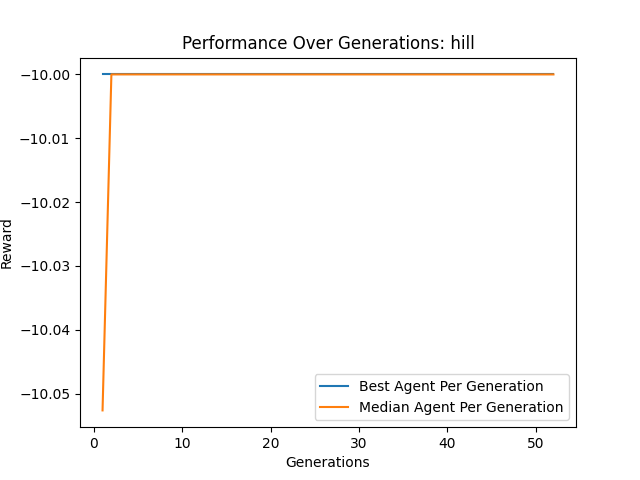
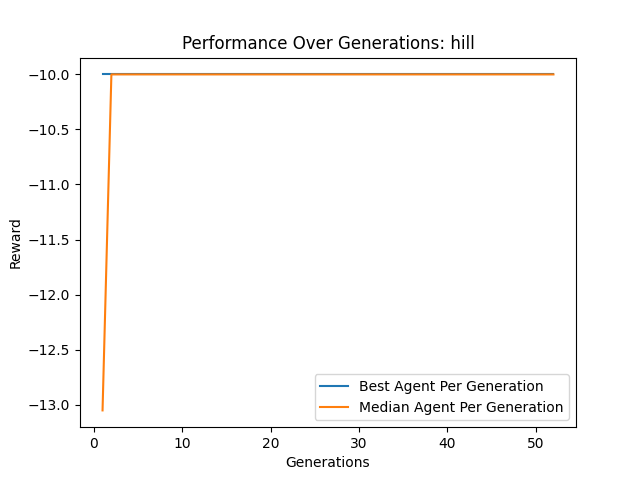
debug info prints

diff --git a/core/evolution.py b/core/evolution.py
@@ -147,12 +147,15 @@ class PopulationMember:
 
     def run_action_sequence(self):
         start_time = timer()
-        self.reward = 0
+        self.reward = None
         observation, _ = self.env.reset()
         if self.genotype_representation == "1d":
             for idx, action in enumerate(self.action_sequence):
                 _, reward, terminate, truncate, info = self.env.step(action)
-                self.reward += reward
+                if not self.reward:
+                    self.reward = reward
+                else: 
+                    self.reward += reward
                 self.info = info
                 if terminate or truncate:
                     break
@@ -166,7 +169,10 @@ class PopulationMember:
                 observation, reward, terminate, truncate, info = self.env.step(
                     self.action_sequence[flattened_index]
                 )
-                self.reward += reward
+                if not self.reward:
+                    self.reward = reward
+                else: 
+                    self.reward += reward
                 self.info = info
         end_time = timer()
         self.info["wfc_rollout_time"] = end_time - start_time
@@ -633,9 +639,9 @@ def render_best_agent(
     total_reward = 0
     print("Info:", best_agent.info)
     print("Rendering best agent's action sequence...")
-
+    info = None
     for action in tqdm(best_agent.action_sequence, desc="Rendering Steps"):
-        _, reward, terminate, truncate, _ = env.step(action)
+        _, reward, terminate, truncate, info = env.step(action)
         total_reward += reward
 
         # Clear screen
@@ -676,7 +682,8 @@ def render_best_agent(
         # Capture final frame if this is the last step
         if terminate or truncate:
             break
-
+    if info:
+        print("Final Info:", info)
     # --- Draw the path with smooth curves ---
     if hasattr(best_agent.info, "get") and "longest_path" in best_agent.info:
         path_indices = best_agent.info["longest_path"]
@@ -1037,13 +1044,15 @@ if __name__ == "__main__":
 
         # Run the best agent's actions
         observation, _ = env.reset()
+        info = None
         for action in best_agent.action_sequence:
-            observation, _, terminated, truncated, _ = env.step(action)
+            observation, _, terminated, truncated, info = env.step(action)
             env.render()
             pygame.display.flip()
             if terminated or truncated:
                 break
-
+        if info:
+            print("Final Info:", info)
         # Save the final render
         env.save_render(output_filename)
         print(f"Saved final render to {output_filename}")

diff --git a/core/wfc_env.py b/core/wfc_env.py
@@ -47,42 +47,6 @@ class CombinedReward:
         return total_reward, merged_info
 
 
-def grid_to_array(
-    grid: list[list[set[str]]],
-    tile_symbols: list[str],
-    tile_to_index: dict[str, int],
-    map_length: int,
-    map_width: int,
-) -> np.ndarray:
-    """Converts the list-of-sets grid to a flattened numpy array for the observation."""
-    arr = np.empty((map_length, map_width), dtype=np.float32)
-    num_tiles = len(tile_symbols)
-    for y in range(map_length):
-        for x in range(map_width):
-            cell_set = grid[y][x]
-            num_options = len(cell_set)
-            if num_options == 1:
-                # Collapsed cell
-                tile_name = next(iter(cell_set))
-                idx = tile_to_index.get(tile_name, -1)  # Get index from map
-                if idx != -1 and num_tiles > 1:
-                    arr[y, x] = idx / (num_tiles - 1)
-                elif idx != -1 and num_tiles == 1:
-                    arr[y, x] = 0.0  # Handle single tile case
-                else:
-                    arr[y, x] = -1.0  # Should not happen if tile_to_index is correct
-            elif num_options == 0:
-                # Contradiction cell
-                arr[
-                    y, x
-                ] = -2.0  # Use a different value for contradiction? Or stick to -1? Let's use -1.
-                arr[y, x] = -1.0
-            else:
-                # Undecided cell
-                arr[y, x] = -1.0
-    return arr.flatten()
-
-
 class WFCWrapper(gym.Env):
     """
     Gymnasium Environment for Wave Function Collapse controlled by an RL agent.
@@ -272,7 +236,7 @@ class WFCWrapper(gym.Env):
         # It modifies the grid in-place and returns terminated/truncated status
         # Note: biome_wfc_step expects action_probs, not logits
         self.grid, terminated, truncated = biome_wfc_step(
-            self.grid,  # The list-of-sets grid
+            self.grid,  # The grid
             self.adjacency,  # Adjacency rules (numpy bool array)
             self.all_tiles,  # List of tile symbols
             self.tile_to_index,  # Tile symbol to index map
@@ -288,6 +252,7 @@ class WFCWrapper(gym.Env):
 
         # Calculate reward using the updated grid and initial longest path
         if terminated:
+            assert not np.any(self.grid == -1)
             reward, info = self.reward(self.grid)
             if self.max_reward > 0:
                 assert reward <= self.max_reward, (

diff --git a/tasks/pond_task.py b/tasks/pond_task.py
@@ -82,10 +82,16 @@ def pond_reward(grid: np.ndarray) -> tuple[float, dict[str, Any]]:
 
     return total_reward, {
         "percent_water": water_percent,
+        "water_penalty": water_penalty,
         "percent_water_center": pure_water_percent,
+        "water_center_penalty": water_center_penalty,
         "number_of_water_regions": water_regions,
+        "region_penalty": region_penalty,
         "number_of_land_regions": land_regions,
-        "water_path_length": water_path_length
+        "land_region_penalty": land_region_penalty,
+        "water_path_length": water_path_length,
+        "path_penalty": path_penalty,
+        "hills_penalty": hills_penalty
     }
 
 

diff --git a/core/wfc.py b/core/wfc.py
@@ -313,6 +313,7 @@ def biome_wfc_step(
         if contradiction_found:
             return grid, False, True  # Truncated (contradiction post-propagation)
         if all_collapsed:
+            assert not np.any(grid == -1)
             return grid, True, False  # Terminated (all collapsed post-propagation)
         # If neither, unexpected state
         return grid, False, True
